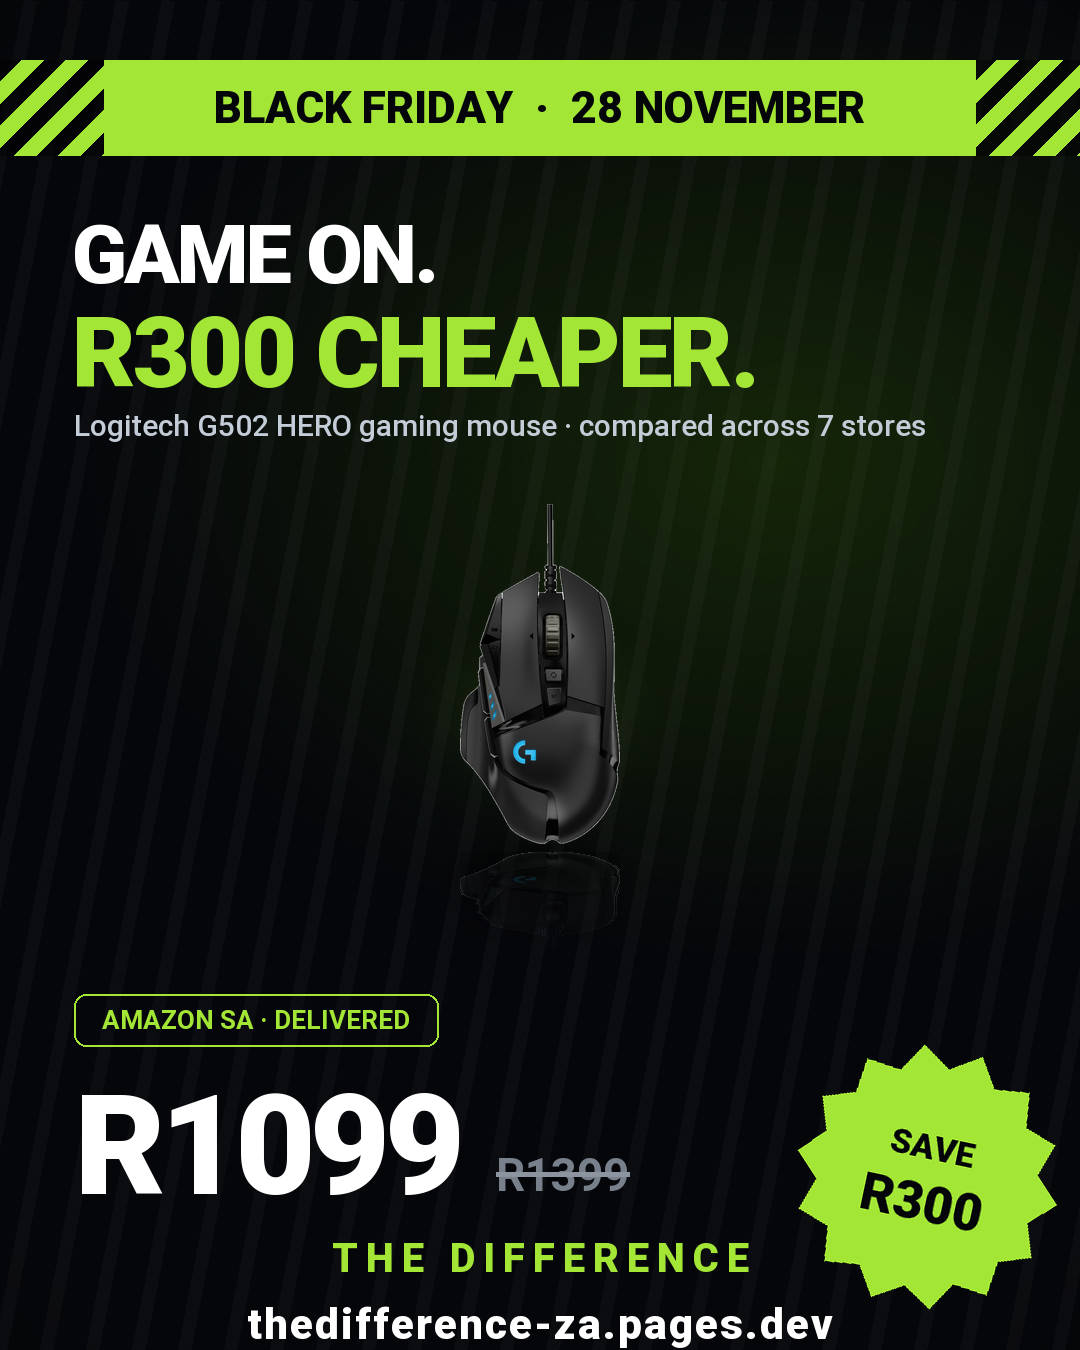
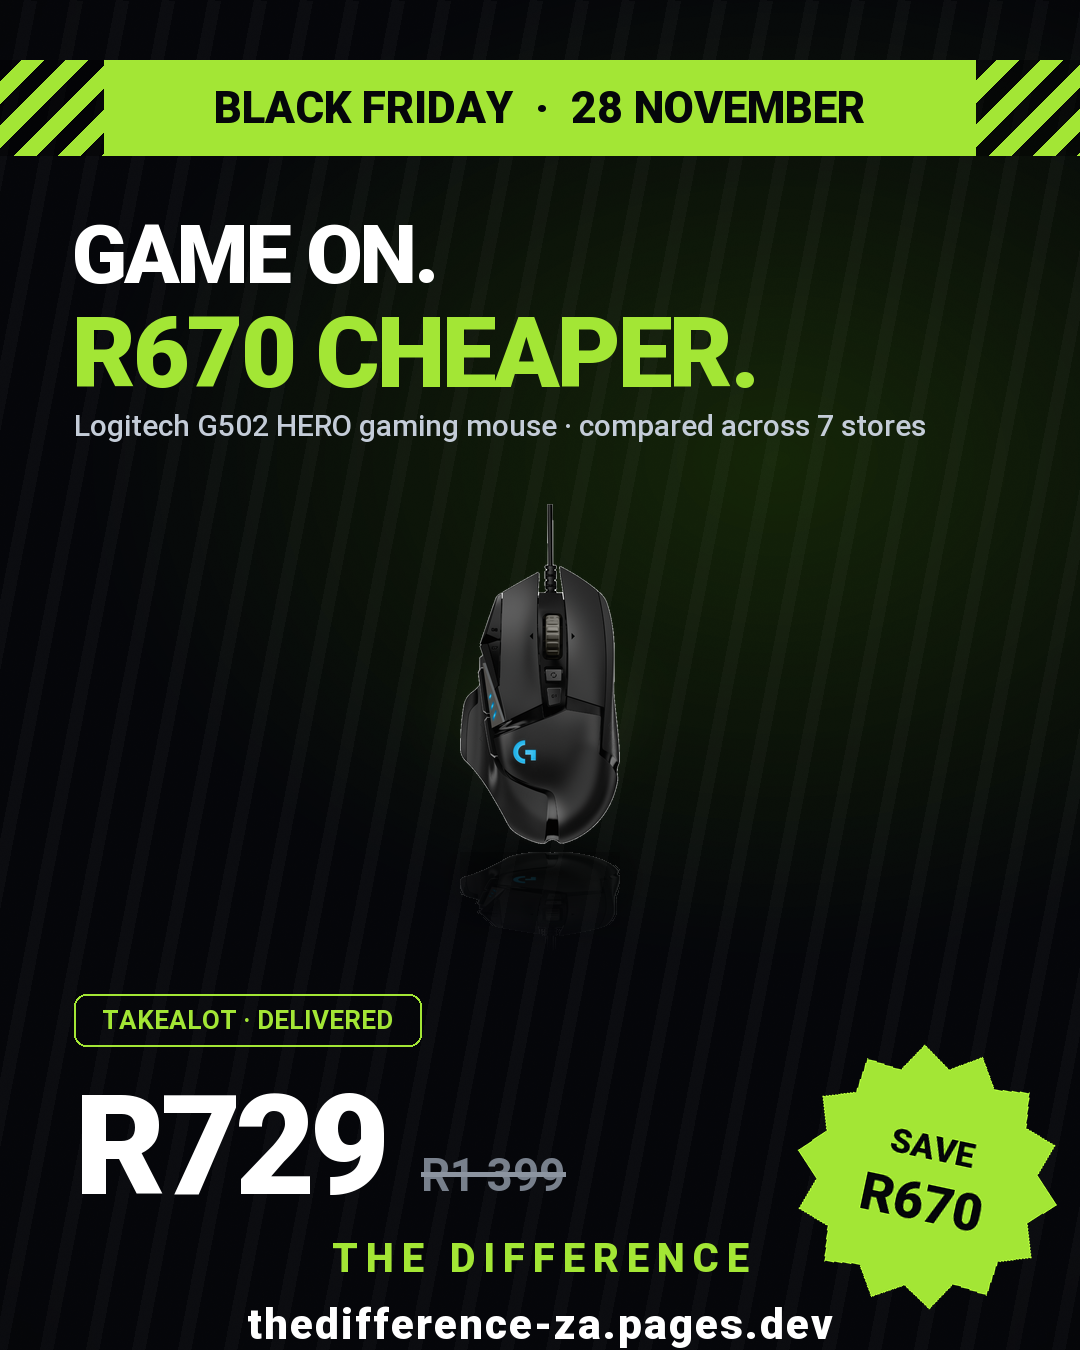
promo: refresh posters to live Black Friday prices + 8 new mega-deal posters

diff --git a/scripts/make_bf_posters.py b/scripts/make_bf_posters.py
@@ -290,10 +290,10 @@ if __name__ == "__main__":
     )
     deal_poster(
         "SAME PHONE.",
-        "R3 000 CHEAPER.",
-        "iPhone 15 · 128GB · brand new, 5G · compared across 7 SA stores",
+        "R1 500 CHEAPER.",
+        "iPhone 15 · 128GB · brand new, 5G · compared across 7 stores",
         "prod-iphone-15.png",
-        "R13 999", "R16 999", "SAVE\nR3 000",
+        "R13 999", "R15 499", "SAVE\nR1 500",
         ("TAKEALOT", "DELIVERED"),
         "poster-bf-iphone.png",
     )
@@ -302,8 +302,8 @@ if __name__ == "__main__":
         "FOR POWER.",
         "EcoFlow Delta Pro · 3600Wh · compared across 7 stores",
         "prod-ecoflow-delta-pro.png",
-        "R48 999", "R52 999", "SAVE\nR4 000",
-        ("AMAZON SA", "DELIVERED"),
+        "R33 006", "R52 999", "SAVE\nR19 993",
+        ("TAKEALOT", "DELIVERED"),
         "poster-bf-ecoflow.png",
     )
     deal_poster(
@@ -317,10 +317,10 @@ if __name__ == "__main__":
     )
     deal_poster(
         "SAME OLED TV.",
-        "R2 350 CHEAPER.",
+        "R6 360 CHEAPER.",
         "LG 55\" 4K OLED evo C4 · compared across 7 stores",
         "prod-lg-55-c4-oled.png",
-        "R23 649", "R25 999", "SAVE\nR2 350",
+        "R23 649", "R30 009", "SAVE\nR6 360",
         ("AMAZON SA", "DELIVERED"),
         "poster-bf-lg-oled.png",
     )
@@ -329,62 +329,62 @@ if __name__ == "__main__":
         "R2 150 CHEAPER.",
         "EcoFlow Delta 2 · 1024Wh power station · compared across 7 stores",
         "prod-ecoflow-delta-2.png",
-        "R14 499", "R16 499", "SAVE\nR2 150",
+        "R14 499", "R16 649", "SAVE\nR2 150",
         ("AMAZON SA", "DELIVERED"),
         "poster-bf-ecoflow-delta2.png",
     )
     deal_poster(
         "BIG SOUND.",
-        "R2 150 CHEAPER.",
+        "R6 650 CHEAPER.",
         "JBL Bar 800 · 5.1.2ch Atmos with detachable speakers · across 7 stores",
         "prod-jbl-bar-800.png",
-        "R16 499", "R18 649", "SAVE\nR2 150",
-        ("AMAZON SA", "DELIVERED"),
+        "R11 999", "R18 649", "SAVE\nR6 650",
+        ("TAKEALOT", "DELIVERED"),
         "poster-bf-jbl.png",
     )
     deal_poster(
         "CLEAN FOR LESS.",
-        "R2 000 CHEAPER.",
+        "R2 510 CHEAPER.",
         "Dyson V12 Detect Slim · cordless vacuum · compared across 7 stores",
         "prod-dyson-v12-detect-slim.png",
-        "R12 499", "R14 499", "SAVE\nR2 000",
-        ("AMAZON SA", "DELIVERED"),
+        "R11 989", "R14 499", "SAVE\nR2 510",
+        ("TAKEALOT", "DELIVERED"),
         "poster-bf-dyson.png",
     )
     deal_poster(
         "STAY POWERED.",
-        "R2 000 CHEAPER.",
+        "R12 000 CHEAPER.",
         "Bluetti AC200P · 2000Wh power station · compared across 7 stores",
         "prod-bluetti-ac200p.png",
-        "R22 999", "R24 999", "SAVE\nR2 000",
-        ("AMAZON SA", "DELIVERED"),
+        "R12 999", "R24 999", "SAVE\nR12 000",
+        ("TAKEALOT", "DELIVERED"),
         "poster-bf-bluetti.png",
     )
     deal_poster(
         "STAY CHARGED.",
-        "R170 CHEAPER.",
+        "R220 CHEAPER.",
         "Romoss Sense 8+ · 30000mAh power bank · compared across 7 stores",
         "prod-romoss-sense-8-plus.png",
-        "R549", "R719", "SAVE\nR170",
-        ("AMAZON SA", "DELIVERED"),
+        "R499", "R719", "SAVE\nR220",
+        ("TAKEALOT", "DELIVERED"),
         "poster-bf-powerbank.png",
     )
     deal_poster(
         "GAME ON.",
-        "R300 CHEAPER.",
+        "R670 CHEAPER.",
         "Logitech G502 HERO gaming mouse · compared across 7 stores",
         "prod-logitech-g502-hero.png",
-        "R1099", "R1399", "SAVE\nR300",
-        ("AMAZON SA", "DELIVERED"),
+        "R729", "R1 399", "SAVE\nR670",
+        ("TAKEALOT", "DELIVERED"),
         "poster-bf-g502.png",
     )
     deal_poster(
         "RETRO KETTLE.",
-        "R245 CHEAPER.",
+        "R299 CHEAPER.",
         "Russell Hobbs 1.7L Retro Classic kettle · compared across 7 stores",
         "prod-russell-hobbs-retro-kettle.png",
-        "R949", "R1194", "SAVE\nR245",
-        ("AMAZON SA", "DELIVERED"),
+        "R895", "R1 194", "SAVE\nR299",
+        ("TAKEALOT", "DELIVERED"),
         "poster-bf-kettle.png",
     )
     deal_poster(
@@ -392,17 +392,17 @@ if __name__ == "__main__":
         "R295 CHEAPER.",
         "Russell Hobbs 20L mirror-door microwave · compared across 7 stores",
         "prod-russell-hobbs-microwave.png",
-        "R1199", "R1494", "SAVE\nR295",
+        "R1 199", "R1 494", "SAVE\nR295",
         ("AMAZON SA", "DELIVERED"),
         "poster-bf-microwave.png",
     )
     deal_poster(
         "WI-FI STAYS ON.",
-        "R170 CHEAPER.",
+        "R220 CHEAPER.",
         "Gizzu 30W Mini UPS · router & fibre backup · compared across 7 stores",
         "prod-gizzu-30w-mini-ups.png",
-        "R749", "R919", "SAVE\nR170",
-        ("AMAZON SA", "DELIVERED"),
+        "R699", "R919", "SAVE\nR220",
+        ("TAKEALOT", "DELIVERED"),
         "poster-bf-gizzu.png",
     )
     deal_poster(
@@ -410,53 +410,53 @@ if __name__ == "__main__":
         "R220 CHEAPER.",
         "Xbox Wireless Controller · Robot White · compared across 7 stores",
         "prod-xbox-controller.png",
-        "R1199", "R1419", "SAVE\nR220",
+        "R1 199", "R1 419", "SAVE\nR220",
         ("AMAZON SA", "DELIVERED"),
         "poster-bf-xbox.png",
     )
     deal_poster(
         "SILENCE, CHEAPER.",
-        "R1 795 LESS.",
+        "R3 595 LESS.",
         "Sony WH-1000XM5 · flagship ANC headphones · compared across 7 stores",
         "prod-sony-xm5.png",
-        "R6 799", "R8 594", "SAVE\nR1 795",
-        ("AMAZON SA", "DELIVERED"),
+        "R4 999", "R8 594", "SAVE\nR3 595",
+        ("TAKEALOT", "DELIVERED"),
         "poster-bf-sony-xm5.png",
     )
     deal_poster(
         "STILL LEGENDARY.",
-        "R800 CHEAPER.",
+        "R1 800 CHEAPER.",
         "Sony WH-1000XM4 · ANC headphones · compared across 7 stores",
         "prod-sony-xm4.png",
-        "R5 199", "R5 999", "SAVE\nR800",
+        "R5 199", "R6 999", "SAVE\nR1 800",
         ("AMAZON SA", "DELIVERED"),
         "poster-bf-sony-xm4.png",
     )
     deal_poster(
         "SAME BUDS.",
-        "R500 CHEAPER.",
+        "R800 CHEAPER.",
         "Samsung Galaxy Buds 3 Pro · ANC earbuds with case · across 7 stores",
         "prod-galaxy-buds-3-pro.png",
-        "R3 799", "R4 299", "SAVE\nR500",
-        ("AMAZON SA", "DELIVERED"),
+        "R3 499", "R4 299", "SAVE\nR800",
+        ("TAKEALOT", "DELIVERED"),
         "poster-bf-galaxy-buds.png",
     )
     deal_poster(
         "BASS BEAST.",
-        "R600 CHEAPER.",
+        "R1 400 CHEAPER.",
         "Sony ULT WEAR · bass-focused ANC headphones · compared across 7 stores",
         "prod-sony-ult-wear.png",
-        "R3 299", "R3 899", "SAVE\nR600",
-        ("AMAZON SA", "DELIVERED"),
+        "R2 499", "R3 899", "SAVE\nR1 400",
+        ("TAKEALOT", "DELIVERED"),
         "poster-bf-sony-ult.png",
     )
     deal_poster(
         "SAME AIRPODS.",
-        "R400 CHEAPER.",
+        "R900 CHEAPER.",
         "Apple AirPods 4 · USB-C charging case · compared across 7 stores",
         "prod-airpods-4.png",
-        "R3 199", "R3 599", "SAVE\nR400",
-        ("AMAZON SA", "DELIVERED"),
+        "R2 699", "R3 599", "SAVE\nR900",
+        ("TAKEALOT", "DELIVERED"),
         "poster-bf-airpods4.png",
     )
     deal_poster(
@@ -464,7 +464,7 @@ if __name__ == "__main__":
         "LIGHT ANYWHERE.",
         "Magneto 2.0 · 900-lumen rechargeable LED lantern · across 7 stores",
         "prod-magneto-900l-lantern.png",
-        "R349", "R389", "SAVE\nR40",
+        "R349", "R419", "SAVE\nR70",
         ("AMAZON SA", "DELIVERED"),
         "poster-bf-lantern.png",
     )
@@ -473,18 +473,90 @@ if __name__ == "__main__":
         "R349 LANDED.",
         "Magneto 10000mAh slim power bank · built-in cables · across 7 stores",
         "prod-magneto-10000-powerbank.png",
-        "R349", "R389", "SAVE\nR40",
+        "R349", "R599", "SAVE\nR250",
         ("AMAZON SA", "DELIVERED"),
         "poster-bf-magneto-powerbank.png",
     )
     deal_poster(
         "BRIGHT BARGAIN.",
-        "R399 LANDED.",
+        "R368 LANDED.",
         "Magneto 1200-lumen emergency LED lantern · solar input · across 7 stores",
         "prod-magneto-rechargeable-led.png",
-        "R399", "R494", "SAVE\nR95",
-        ("AMAZON SA", "DELIVERED"),
+        "R368", "R494", "SAVE\nR126",
+        ("TAKEALOT", "DELIVERED"),
         "poster-bf-magneto-lantern.png",
+    )
+    deal_poster(
+        "THE BIG ONE.",
+        "R24 500 CHEAPER.",
+        "Apple MacBook Pro 16\" M3 Pro · 18GB/512GB · compared across 7 stores",
+        "prod-macbook-pro-16-m3-pro.png",
+        "R46 499", "R70 999", "SAVE\nR24 500",
+        ("AMAZON SA", "DELIVERED"),
+        "poster-bf-macbook-pro16.png",
+    )
+    deal_poster(
+        "FOLD, DON'T FLEECE.",
+        "R16 000 CHEAPER.",
+        "Samsung Galaxy Z Fold 6 5G · 256GB · compared across 7 stores",
+        "prod-galaxy-z-fold-6.png",
+        "R23 999", "R39 999", "SAVE\nR16 000",
+        ("TAKEALOT", "DELIVERED"),
+        "poster-bf-zfold6.png",
+    )
+    deal_poster(
+        "SAME IPHONE.",
+        "R10 600 CHEAPER.",
+        "Apple iPhone 16 Pro · 128GB · Desert Titanium · across 7 stores",
+        "prod-iphone-16-pro.png",
+        "R16 899", "R27 499", "SAVE\nR10 600",
+        ("TAKEALOT", "DELIVERED"),
+        "poster-bf-iphone16pro.png",
+    )
+    deal_poster(
+        "GALAXY, LESS.",
+        "R10 539 CHEAPER.",
+        "Samsung Galaxy S24+ 5G · 256GB · compared across 7 stores",
+        "prod-galaxy-s24-plus.png",
+        "R10 460", "R20 999", "SAVE\nR10 539",
+        ("TAKEALOT", "DELIVERED"),
+        "poster-bf-s24plus.png",
+    )
+    deal_poster(
+        "SAME IPAD.",
+        "R10 500 CHEAPER.",
+        "Apple iPad Pro 11\" M4 · Wi-Fi, 256GB · compared across 7 stores",
+        "prod-ipad-pro-11-m4.png",
+        "R10 999", "R21 499", "SAVE\nR10 500",
+        ("TAKEALOT", "DELIVERED"),
+        "poster-bf-ipadpro.png",
+    )
+    deal_poster(
+        "ART TV, HALVED.",
+        "R11 200 CHEAPER.",
+        "Samsung 55\" The Frame QLED 4K · compared across 7 stores",
+        "prod-samsung-55-the-frame.png",
+        "R8 999", "R20 199", "SAVE\nR11 200",
+        ("AMAZON SA", "DELIVERED"),
+        "poster-bf-frame55.png",
+    )
+    deal_poster(
+        "2-IN-1 BARGAIN.",
+        "R13 500 CHEAPER.",
+        "Dell Inspiron 14 2-in-1 Touch · Core i5 · compared across 7 stores",
+        "prod-dell-inspiron-14-2in1.png",
+        "R16 499", "R29 999", "SAVE\nR13 500",
+        ("AMAZON SA", "DELIVERED"),
+        "poster-bf-dell.png",
+    )
+    deal_poster(
+        "MEGA POWER.",
+        "R16 500 CHEAPER.",
+        "EcoFlow Delta 2 Max · 2048Wh power station · compared across 7 stores",
+        "prod-ecoflow-delta-2-max.png",
+        "R26 499", "R42 999", "SAVE\nR16 500",
+        ("AMAZON SA", "DELIVERED"),
+        "poster-bf-ecoflow-d2max.png",
     )
     main_poster()
     print("Poster pack v2 written to", OUT)
